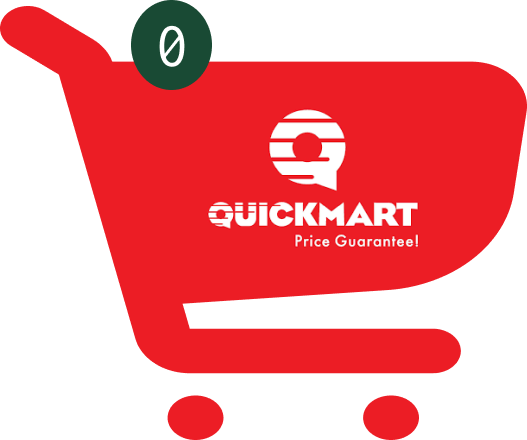
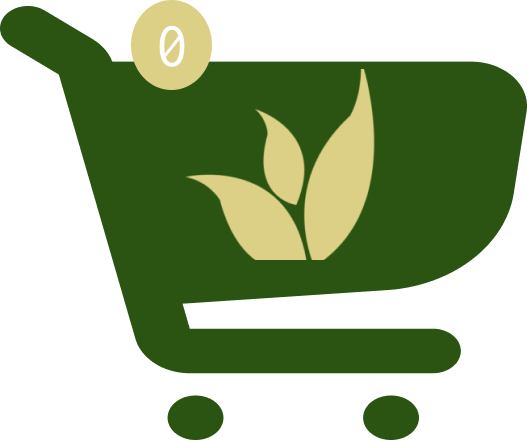
Added a No Products Found Illustration

diff --git a/src/pages/SearchPage.jsx b/src/pages/SearchPage.jsx
@@ -5,6 +5,7 @@ import SkeletonCard from "@/components/skeletons/SkeletonCard";
 import { useState, useEffect } from "react";
 import { useSelector } from "react-redux";
 import { useSearchParams } from "react-router-dom";
+import NoProductsFoundIllustration from "@/components/NoProductsFoundIllustration"; // Import the No Products Found illustration
 
 const SearchPage = () => {
   console.log("SearchPage rendered");
@@ -93,7 +94,7 @@ const SearchPage = () => {
     return () => {
       window.removeEventListener("scroll", handleScroll);
     };
-  }, [hasMore, isLoadingMore, currentPage]); // Ensure currentPage is a dependency
+  }, [hasMore, isLoadingMore, currentPage]);
 
   // Loading state
   if (isProductsLoading) {
@@ -102,7 +103,7 @@ const SearchPage = () => {
         <h2 className="text-2xl font-semibold text-gray-600">
           Search results for "{searchTerm}"
         </h2>
-        <div className="grid grid-cols-2 md:grid-cols-4 lg:grid-cols-6 gap-0 ">
+        <div className="grid grid-cols-2 md:grid-cols-4 lg:grid-cols-6 gap-0">
           {[...Array(6)].map((_, i) => (
             <SkeletonCard key={i} className="m-0" />
           ))}
@@ -111,61 +112,67 @@ const SearchPage = () => {
     );
   }
 
+  // Check for errors or no products found
+  if (!products || products.length === 0) {
+    return (
+      <div>
+        <h2 className="text-2xl text-center md:text-3xl font-semibold text-gray-600 mb-4">
+          No products found for "{searchTerm}"
+        </h2>
+        <p>Please Try A Different Search</p>
+        <NoProductsFoundIllustration />
+
+      </div>
+    );
+  }
+
   return (
     <div>
-      {productsError ? (
-        <div className="text-red-500 text-center mt-4">
-          No products found. Try another search term.
-        </div>
-      ) : (
-        <>
-          <div className="flex flex-col md:flex-row md:items-center md:justify-between mb-4">
-            <h2 className="text-2xl font-semibold text-gray-600">
-              Search results for "{searchTerm}"
-              <p className="text-gray-600 text-sm">
-                {metadata?.totalDocuments} product
-                {metadata?.totalDocuments === 1 ? "" : "s"} found
-              </p>
-            </h2>
+      <div className="flex flex-col md:flex-row md:items-center md:justify-between mb-4">
+        <h2 className="text-2xl font-semibold text-gray-600">
+          Search results for "{searchTerm}"
+          <p className="text-gray-600 text-sm">
+            {metadata?.totalDocuments} product
+            {metadata?.totalDocuments === 1 ? "" : "s"} found
+          </p>
+        </h2>
 
-            <div>
-              <label htmlFor="sort" className="mr-2">
-                Sort by:
-              </label>
-              <select
-                id="sort"
-                value={`${sortBy},${sortOrder}`}
-                onChange={handleSortChange}
-                className="border border-gray-300 rounded px-2 py-1 focus:outline-none"
-              >
-                <option value="createdAt,-1">Relevance</option>
-                <option value="discountPrice,1">Price: Low to High</option>
-                <option value="discountPrice,-1">Price: High to Low</option>
-              </select>
-            </div>
-          </div>
-          <div className="flex flex-wrap sm:justify-start sm:gap-0 gap-2 mb-4 justify-between">
-            {products.map((product) => (
-              <ProductCard
-                key={product._id}
-                discountPrice={product.discountPrice}
-                price={product.price}
-                brand={product.brand}
-                img={product.images[0]}
-                name={product.productName}
-                id={product._id}
-                stockLevel={product.stockLevel}
-              />
-            ))}
-          </div>
-          {isLoadingMore && (
-            <div className="grid grid-cols-2 md:grid-cols-4 lg:grid-cols-6 gap-0 ">
-              {[...Array(6)].map((_, i) => (
-                <SkeletonCard key={i} className="m-0" />
-              ))}
-            </div>
-          )}
-        </>
+        <div>
+          <label htmlFor="sort" className="mr-2">
+            Sort by:
+          </label>
+          <select
+            id="sort"
+            value={`${sortBy},${sortOrder}`}
+            onChange={handleSortChange}
+            className="border border-gray-300 rounded px-2 py-1 focus:outline-none"
+          >
+            <option value="createdAt,-1">Relevance</option>
+            <option value="discountPrice,1">Price: Low to High</option>
+            <option value="discountPrice,-1">Price: High to Low</option>
+          </select>
+        </div>
+      </div>
+      <div className="flex flex-wrap sm:justify-start sm:gap-0 gap-2 mb-4 justify-between">
+        {products.map((product) => (
+          <ProductCard
+            key={product._id}
+            discountPrice={product.discountPrice}
+            price={product.price}
+            brand={product.brand}
+            img={product.images[0]}
+            name={product.productName}
+            id={product._id}
+            stockLevel={product.stockLevel}
+          />
+        ))}
+      </div>
+      {isLoadingMore && (
+        <div className="grid grid-cols-2 md:grid-cols-4 lg:grid-cols-6 gap-0">
+          {[...Array(6)].map((_, i) => (
+            <SkeletonCard key={i} className="m-0" />
+          ))}
+        </div>
       )}
     </div>
   );

diff --git a/src/pages/BrandPage.jsx b/src/pages/BrandPage.jsx
@@ -1,6 +1,6 @@
 import ProductCard from "@/components/ProductCard";
 import { useState, useEffect } from "react";
-import { useParams, useSearchParams } from "react-router-dom";
+import { Link, useParams, useSearchParams } from "react-router-dom";
 import { useSelector, useDispatch } from "react-redux";
 import { useGetProducts } from "@/api/ProductApi"; // Ensure pagination is supported in this hook
 import { useGetBranches } from "@/api/AuthApi";
@@ -8,6 +8,7 @@ import SkeletonCard from "@/components/skeletons/SkeletonCard";
 import Popup from "@/components/Popup"; // Import the Popup component
 import StoreSelection from "@/components/StoreSelection"; // Import the StoreSelection component
 import { setBranch } from "@/redux/branch/branchSlice";
+import NoProductsFoundIllustration from "@/components/NoProductsFoundIllustration";
 
 const BrandPage = () => {
   const { brand } = useParams(); // Get brand from the route parameters
@@ -121,6 +122,18 @@ const BrandPage = () => {
           ))}
         </div>
       </div>
+    );
+  }
+
+  // Render message if no products match the brand
+  if (productList.length === 0) {
+    return (
+      <>
+        <h2 className="text-2xl text-center md:text-3xl font-semibold text-gray-600 mb-4">
+          <span className="capitalize">"{brand}"</span> Products
+        </h2>
+        <NoProductsFoundIllustration />
+      </>
     );
   }
 

diff --git a/src/pages/CategoryPage.jsx b/src/pages/CategoryPage.jsx
@@ -9,6 +9,7 @@ import { setBranch } from "@/redux/branch/branchSlice";
 import { useDispatch, useSelector } from "react-redux";
 import { useParams, useSearchParams } from "react-router-dom";
 import { useGetBranches } from "@/api/AuthApi";
+import NoProductsFoundIllustration from "@/components/NoProductsFoundIllustration";
 
 const CategoryPage = () => {
   const { categoryId } = useParams();
@@ -183,7 +184,9 @@ const CategoryPage = () => {
         </div>
       ) : productsError ? (
         <div className="text-red-500 text-center mt-4">
-          No categories found. Try another criteria.
+          <div>
+            <NoProductsFoundIllustration />
+          </div>
         </div>
       ) : (
         <>

diff --git a/src/components/NoProductsFoundIllustration.jsx b/src/components/NoProductsFoundIllustration.jsx
@@ -1,0 +1,21 @@
+import React from "react";
+import { Link } from "react-router-dom";
+import NoProductsFound from "../assets/images/NoProductsFound.png";
+
+const NoProductsFoundIllustration = () => {
+  return (
+    <div className="flex flex-col min-h-screen mt-4 items-center">
+      <img src={NoProductsFound} className="w-[300px]" />
+
+      <h2 className="text-2xl md:text-3xl font-semibold text-gray-600">No Products Found</h2>
+      <Link
+        to="/"
+        className="border border-primary border-1 px-4 py-2 mt-2 text-primary rounded-full"
+      >
+        Go Back To Homepage
+      </Link>
+    </div>
+  );
+};
+
+export default NoProductsFoundIllustration;
